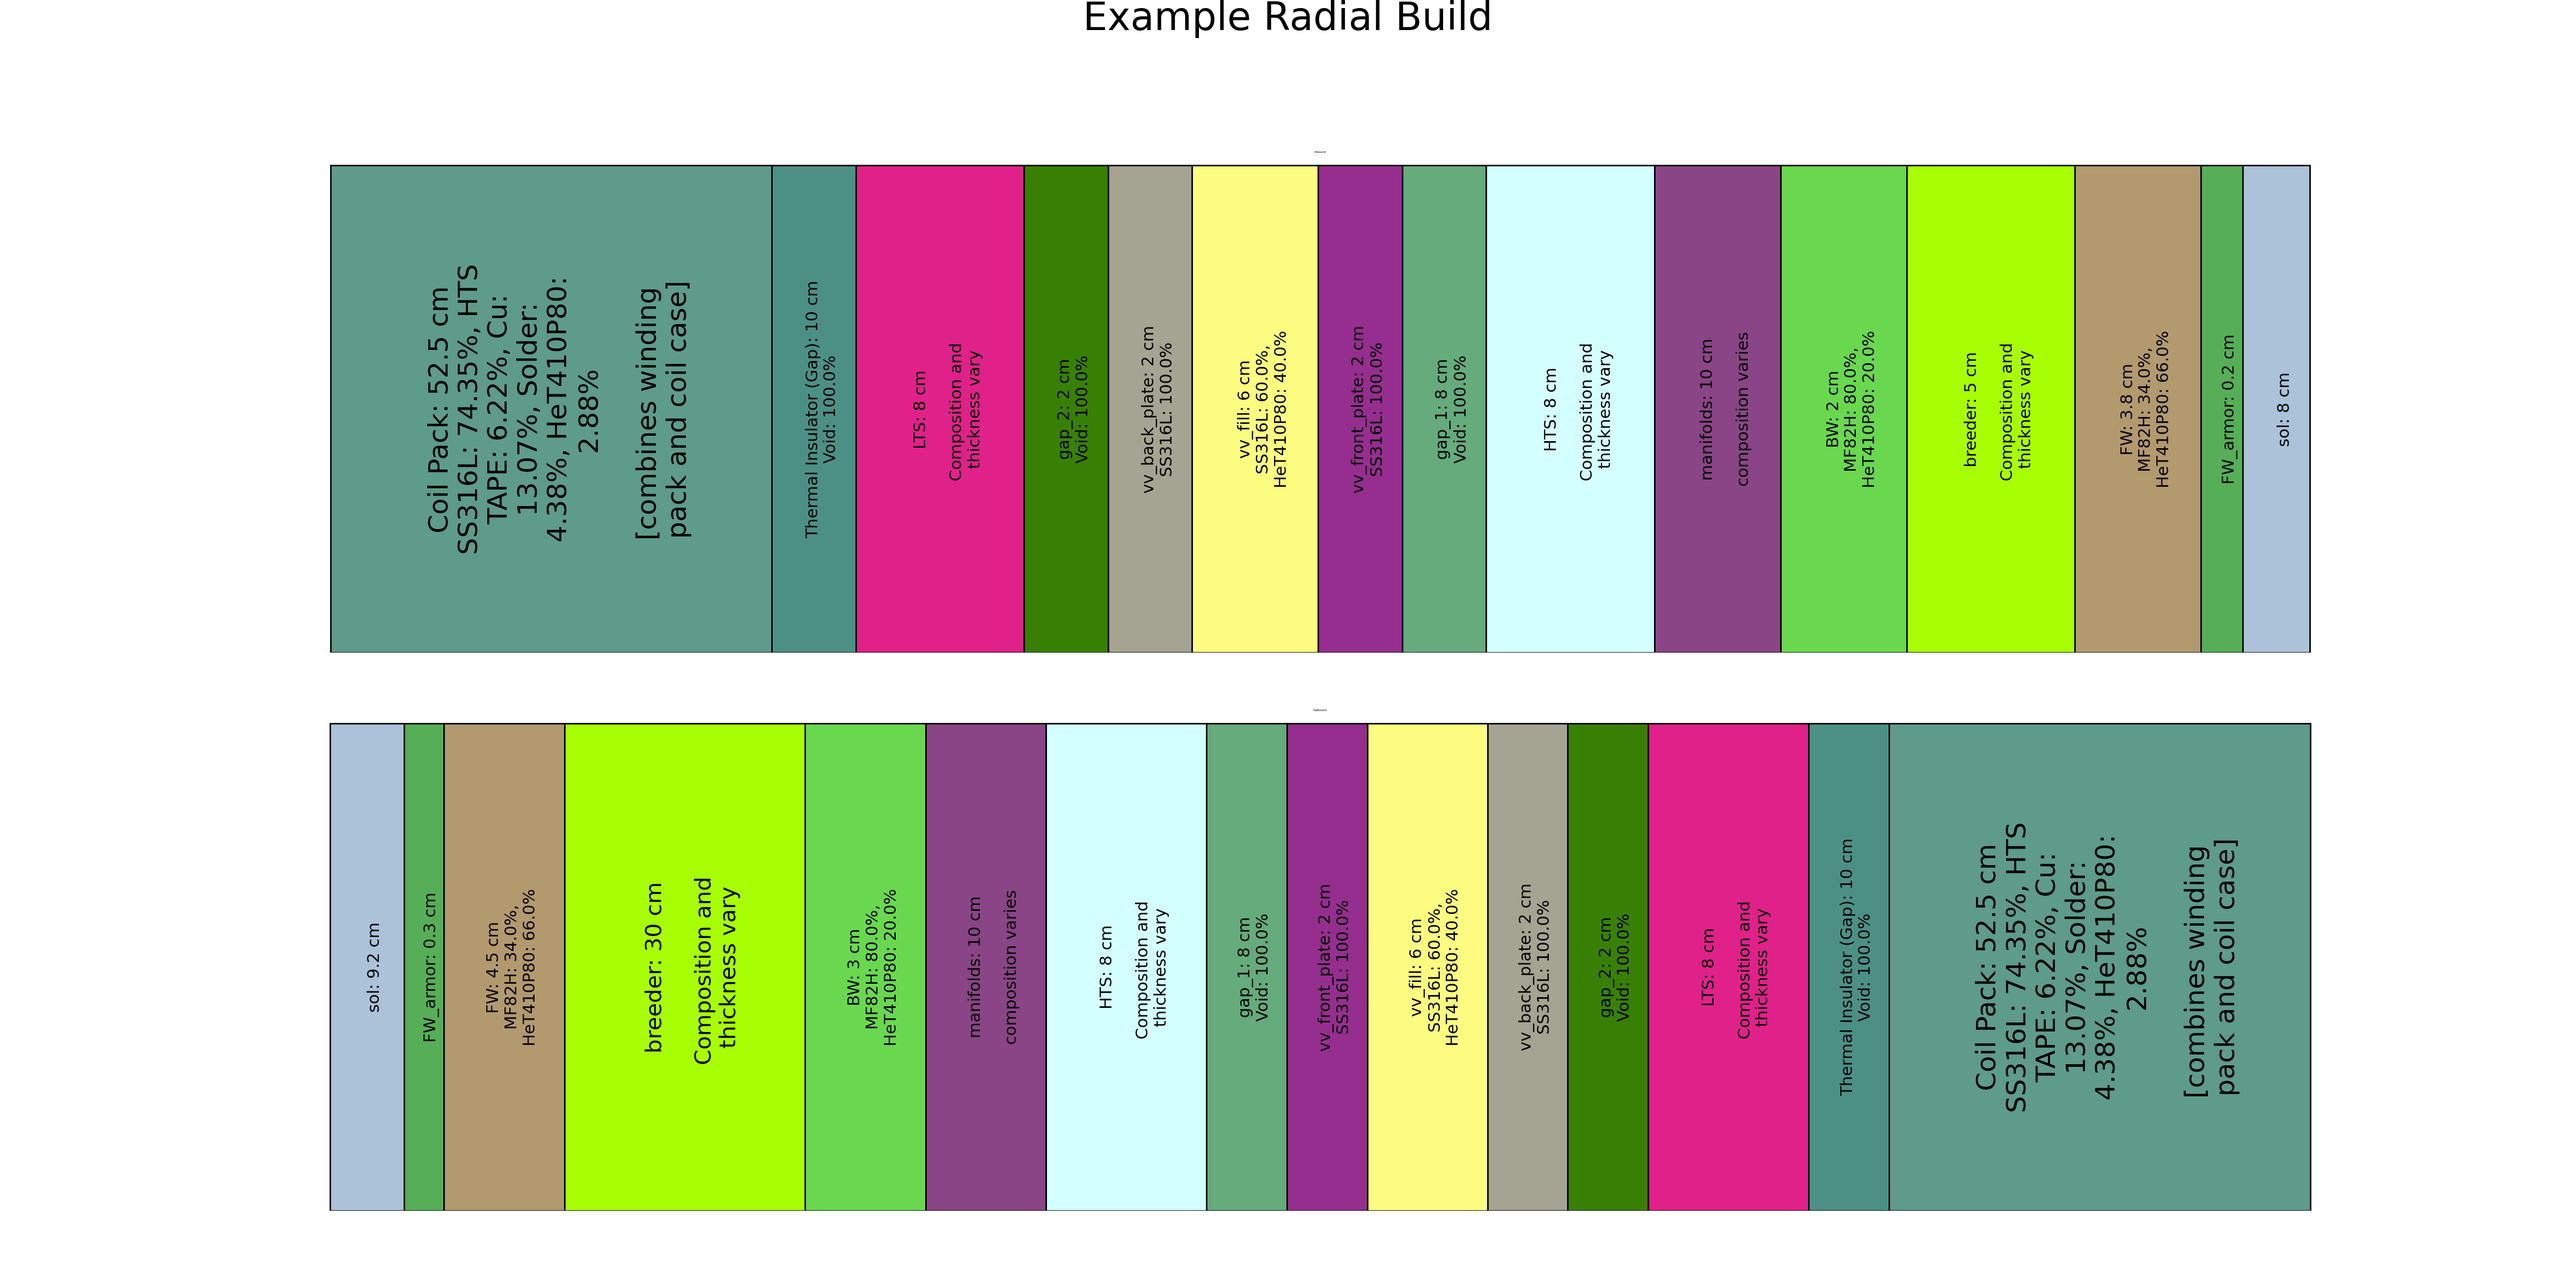
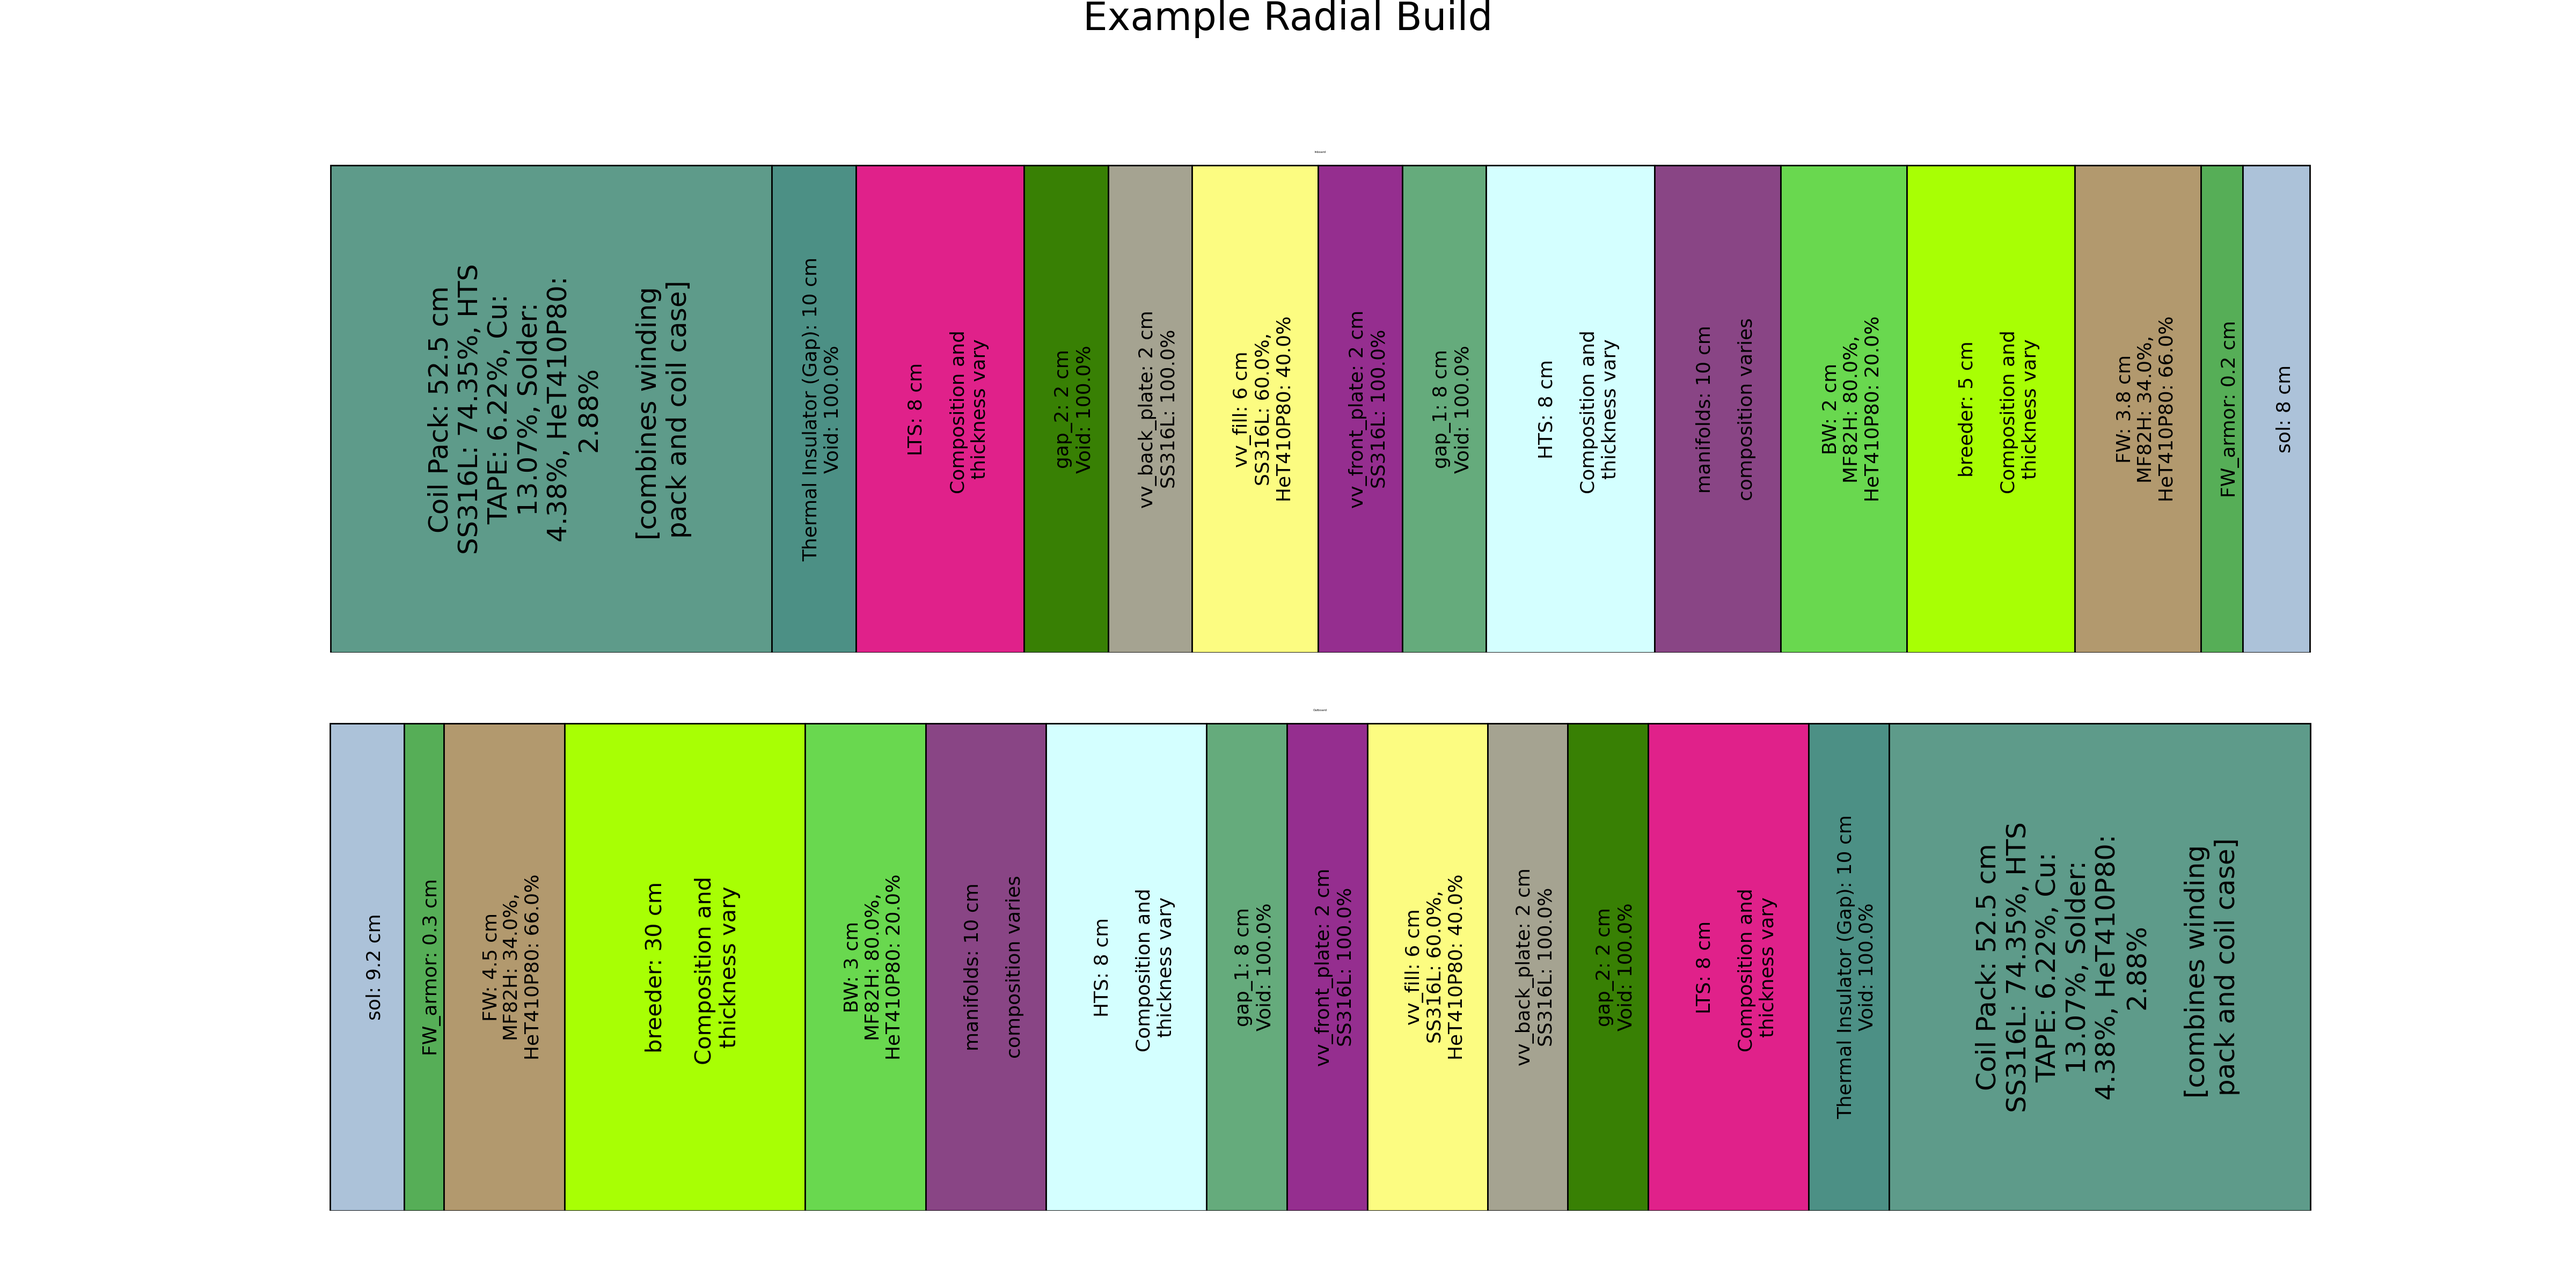
Breeder size change effect

diff --git a/radial_build_tools.py b/radial_build_tools.py
@@ -272,7 +272,7 @@ class RadialBuildPlot(object):
             centerx = ll[0] + visual_thickness / 2 + 1
             centery = height / 2
             font_size = min( 
-                max(visual_thickness /2,11),18)
+                max(visual_thickness /2, 13),18)
             text = ax.text(
                     centerx,
                     centery,
